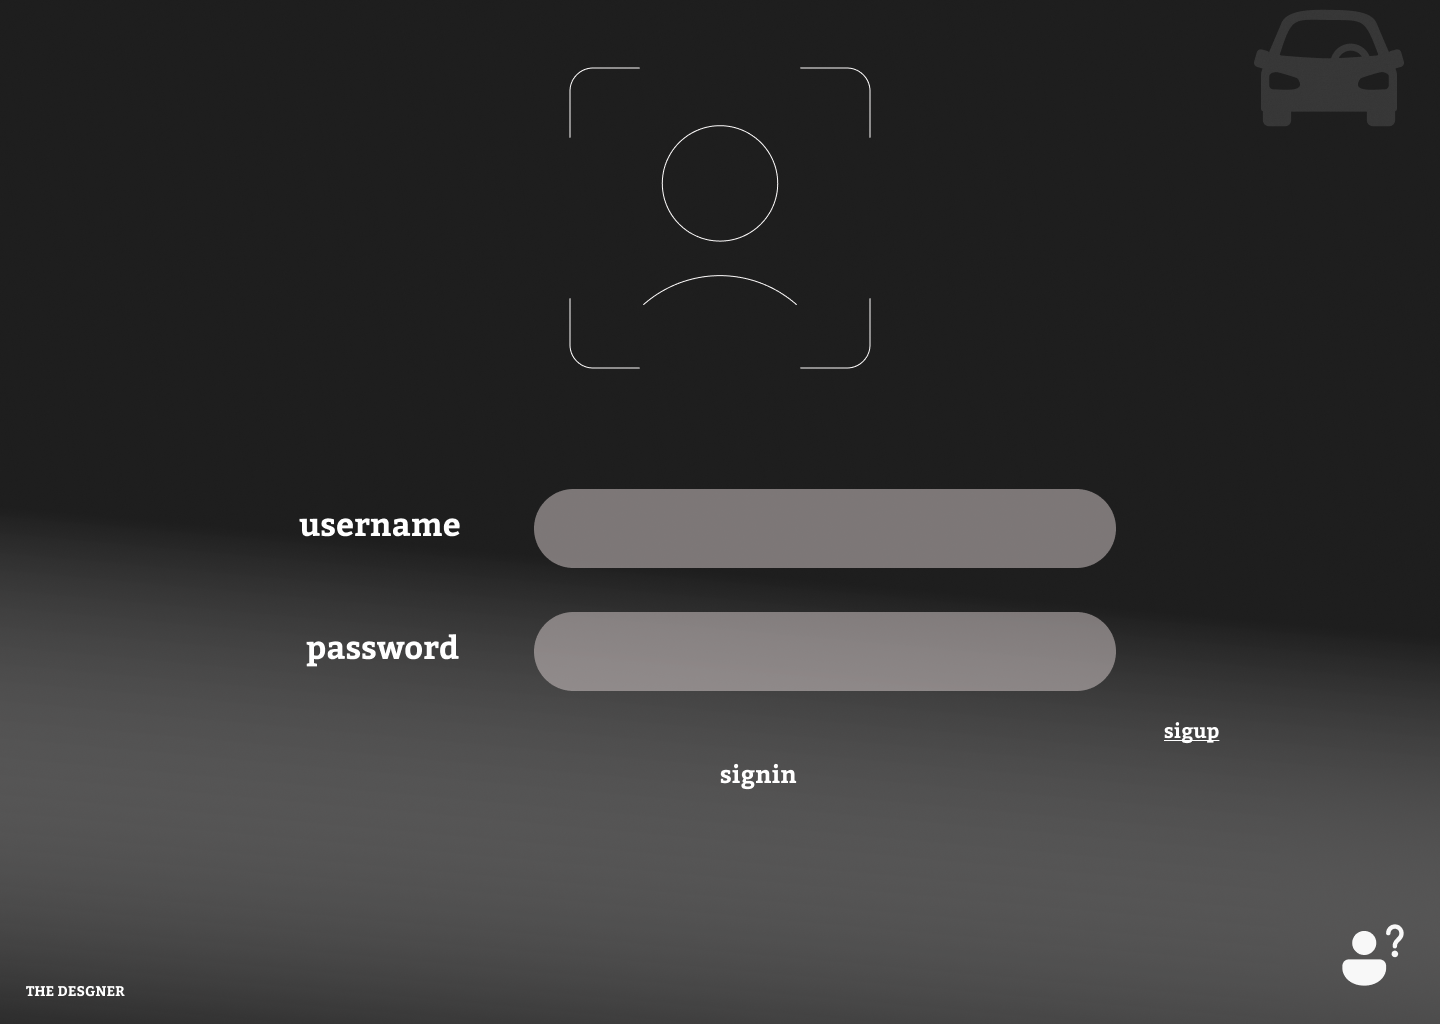
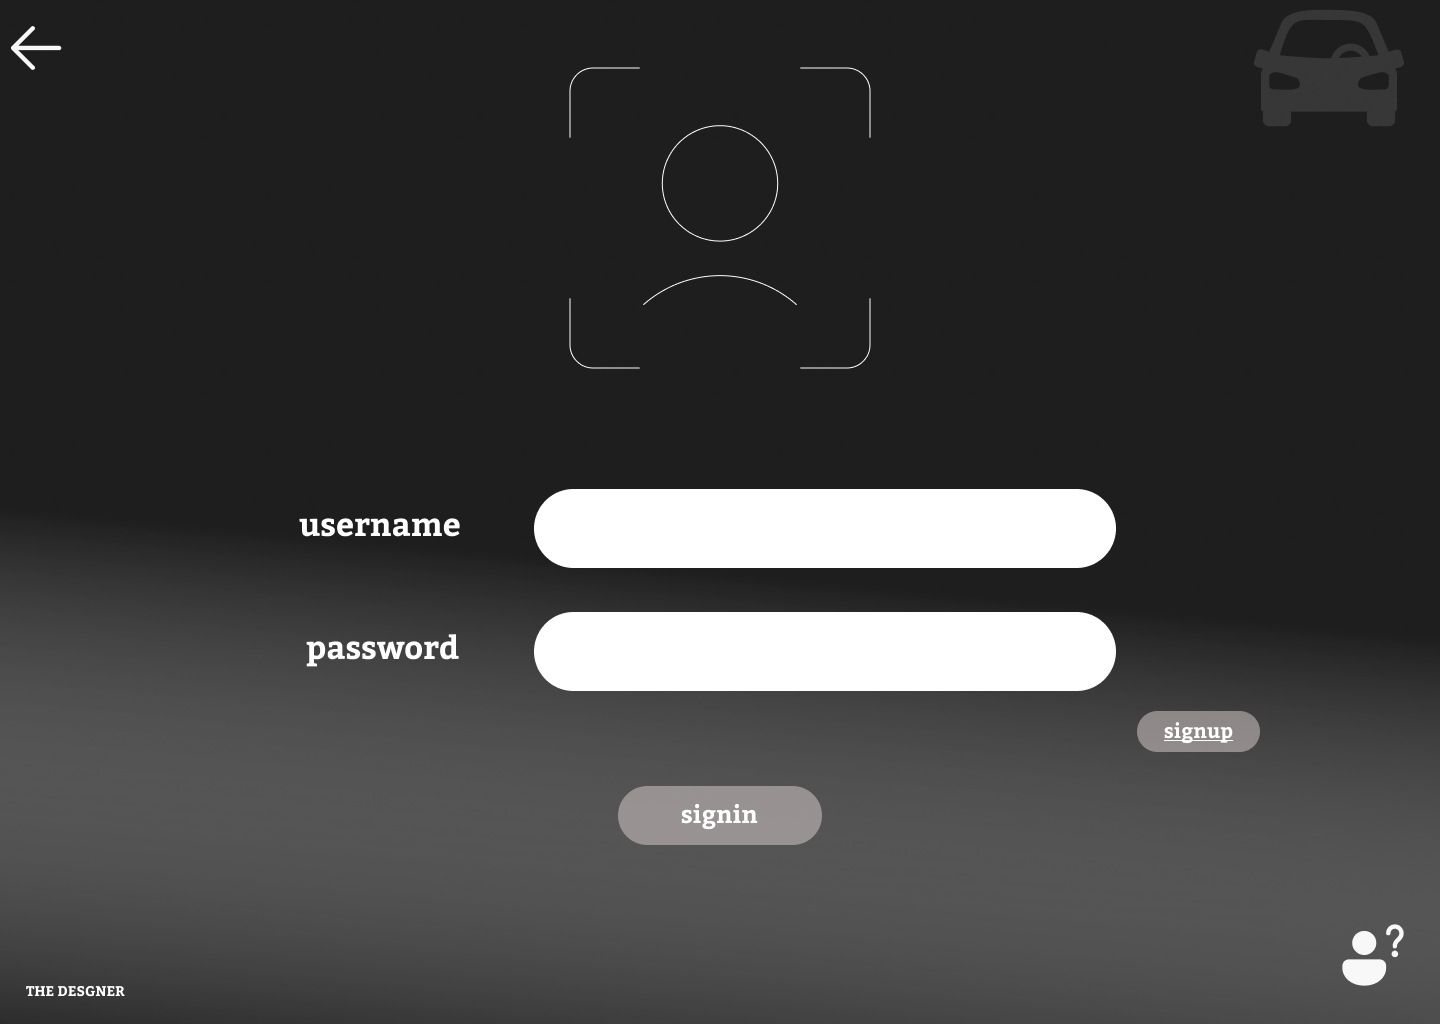
Design

diff --git a/src/main/java/com/example/miniuber/HelloController.java b/src/main/java/com/example/miniuber/HelloController.java
@@ -33,4 +33,66 @@ public class HelloController {
         stage.setScene(scene);
         stage.show();
     }
+
+    @FXML
+    public void onGoBackClick1(ActionEvent event) throws IOException {
+        Parent root = FXMLLoader.load(getClass().getResource("WelcomePage.fxml"));
+        stage = (Stage)((Node)event.getSource()).getScene().getWindow();
+        scene = new Scene(root);
+        stage.setScene(scene);
+        stage.show();
+
+    }
+    @FXML
+    public void onGoBackClick2(ActionEvent event) throws IOException {
+        Parent root = FXMLLoader.load(getClass().getResource("Login.fxml"));
+        stage = (Stage)((Node)event.getSource()).getScene().getWindow();
+        scene = new Scene(root);
+        stage.setScene(scene);
+        stage.show();
+    }
+
+
+    @FXML
+    public void onSignupClick(ActionEvent event) throws IOException {
+        Parent root = FXMLLoader.load(getClass().getResource("Register.fxml"));
+        stage = (Stage)((Node)event.getSource()).getScene().getWindow();
+        scene = new Scene(root);
+        stage.setScene(scene);
+        stage.show();
+    }
+    @FXML
+    public void onRegisterClick(ActionEvent event) throws IOException {
+        Parent root = FXMLLoader.load(getClass().getResource("Request.fxml"));
+        stage = (Stage)((Node)event.getSource()).getScene().getWindow();
+        scene = new Scene(root);
+        stage.setScene(scene);
+        stage.show();
+    }
+    @FXML
+    public void onSigninClick(ActionEvent event) throws IOException {
+        Parent root = FXMLLoader.load(getClass().getResource("Request.fxml"));
+        stage = (Stage)((Node)event.getSource()).getScene().getWindow();
+        scene = new Scene(root);
+        stage.setScene(scene);
+        stage.show();
+    }
+    @FXML
+    public void onSupportClick(ActionEvent event) throws IOException {
+        Parent root = FXMLLoader.load(getClass().getResource("SupportTicket.fxml"));
+        stage = (Stage)((Node)event.getSource()).getScene().getWindow();
+        scene = new Scene(root);
+        stage.setScene(scene);
+        stage.show();
+    }
+
+    @FXML
+    public void onRequestClick(ActionEvent event) throws IOException {
+        Parent root = FXMLLoader.load(getClass().getResource("Payment.fxml"));
+        stage = (Stage)((Node)event.getSource()).getScene().getWindow();
+        scene = new Scene(root);
+        stage.setScene(scene);
+        stage.show();
+    }
+
 }

diff --git a/src/main/java/com/example/miniuber/HelloApplication.java b/src/main/java/com/example/miniuber/HelloApplication.java
@@ -11,11 +11,7 @@ import java.io.IOException;
 public class HelloApplication extends Application {
     @Override
     public void start(Stage stage) throws IOException {
-//        FXMLLoader fxmlLoader = new FXMLLoader(HelloApplication.class.getResource("WelcomePage.fxml"));
-//        Scene scene = new Scene(fxmlLoader.load(), 1000, 700);
-//        stage.setTitle("Mini-Uber");
-//        stage.setScene(scene);
-//        stage.show();
+
         Parent root = FXMLLoader.load(getClass().getResource("WelcomePage.fxml"));
         Scene scene = new Scene(root);
         stage.setScene(scene);

diff --git a/src/main/java/com/example/miniuber/SupportTicket.java b/src/main/java/com/example/miniuber/SupportTicket.java
@@ -1,0 +1,4 @@
+package com.example.miniuber;
+
+public class SupportTicket {
+}

diff --git a/src/main/java/com/example/miniuber/Register.java b/src/main/java/com/example/miniuber/Register.java
@@ -1,0 +1,5 @@
+package com.example.miniuber;
+
+public class Register {
+
+}

diff --git a/src/main/java/com/example/miniuber/Request.java b/src/main/java/com/example/miniuber/Request.java
@@ -1,0 +1,5 @@
+package com.example.miniuber;
+
+public class Request {
+
+}

diff --git a/src/main/java/com/example/miniuber/Payment.java b/src/main/java/com/example/miniuber/Payment.java
@@ -1,0 +1,4 @@
+package com.example.miniuber;
+
+public class Payment {
+}
